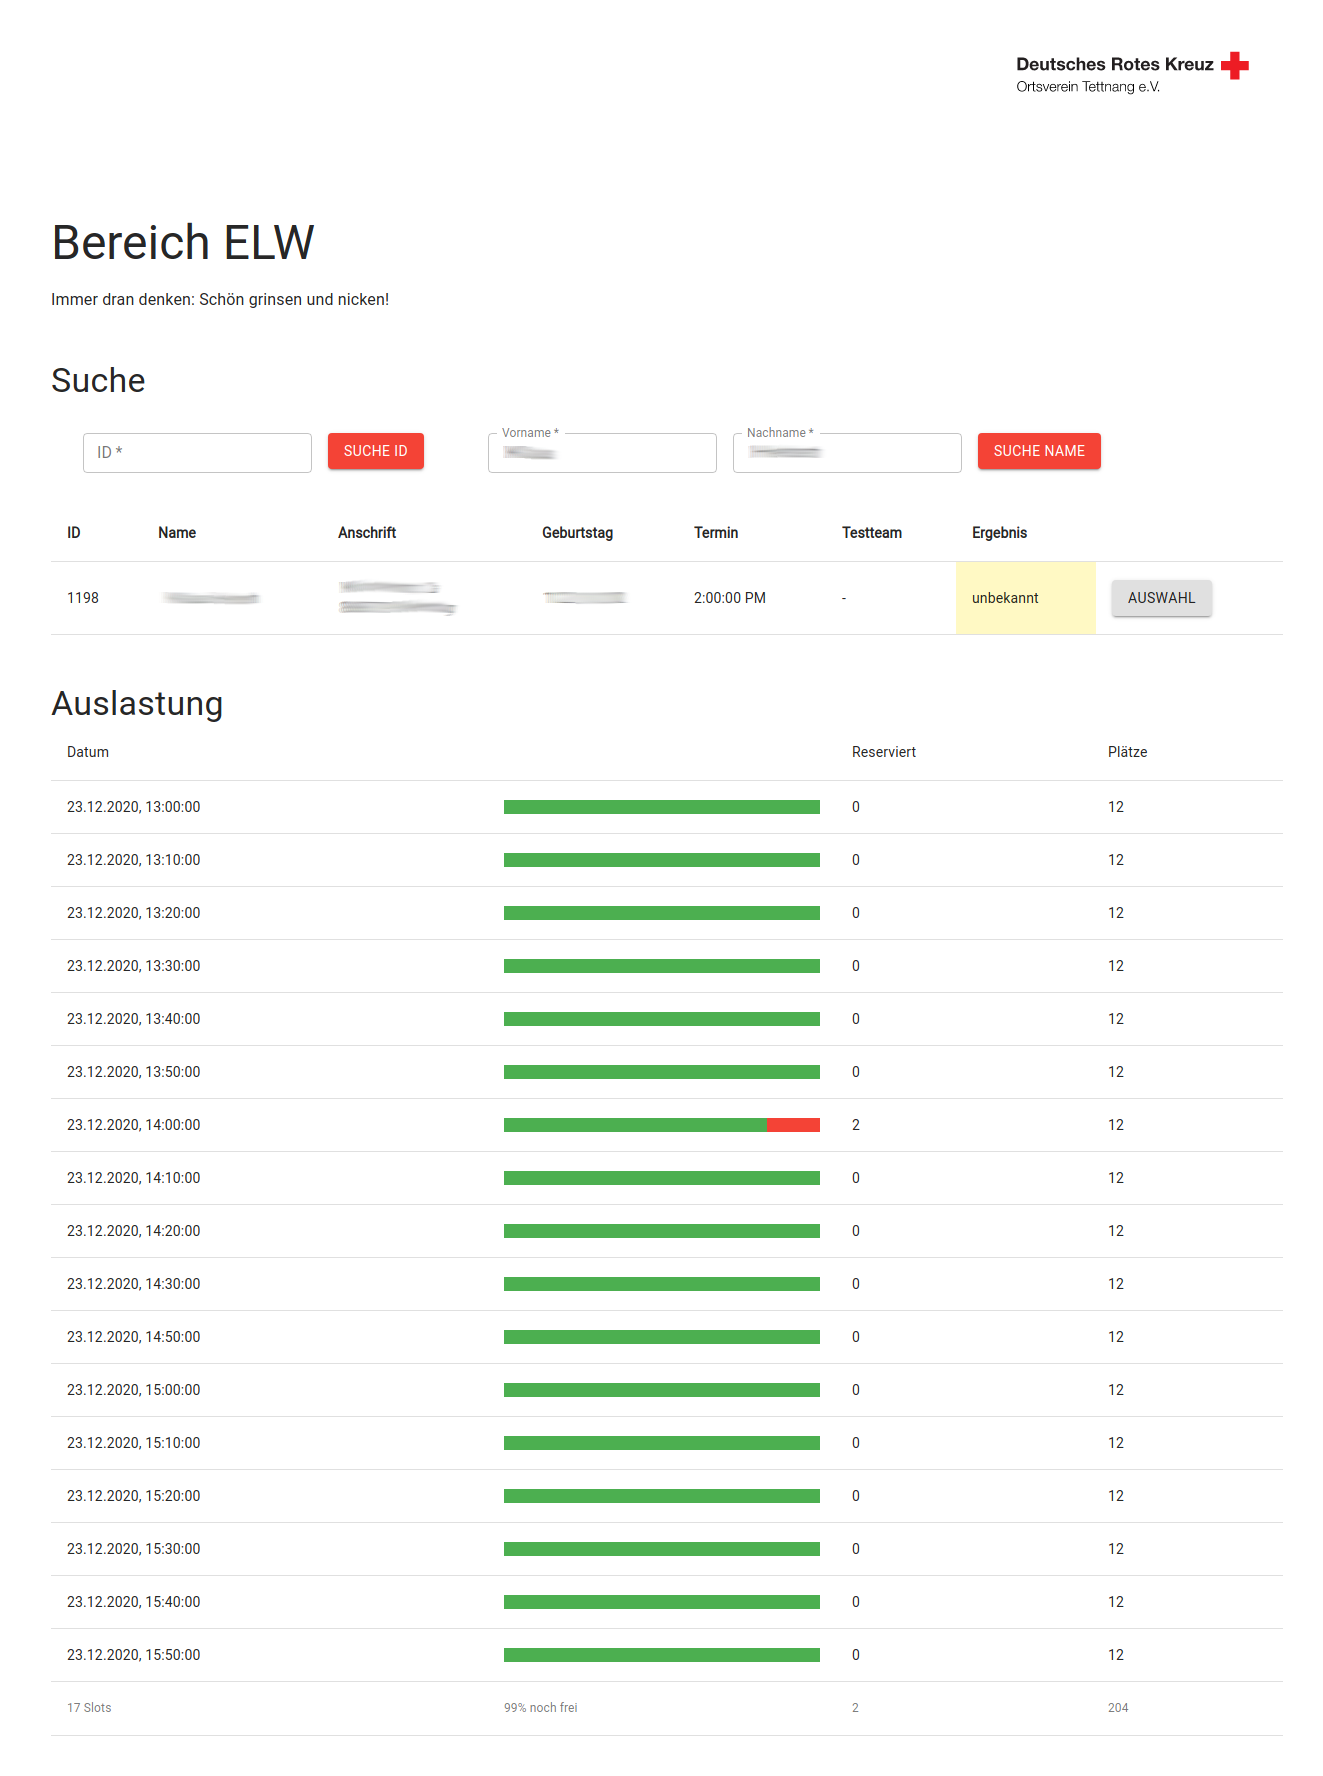
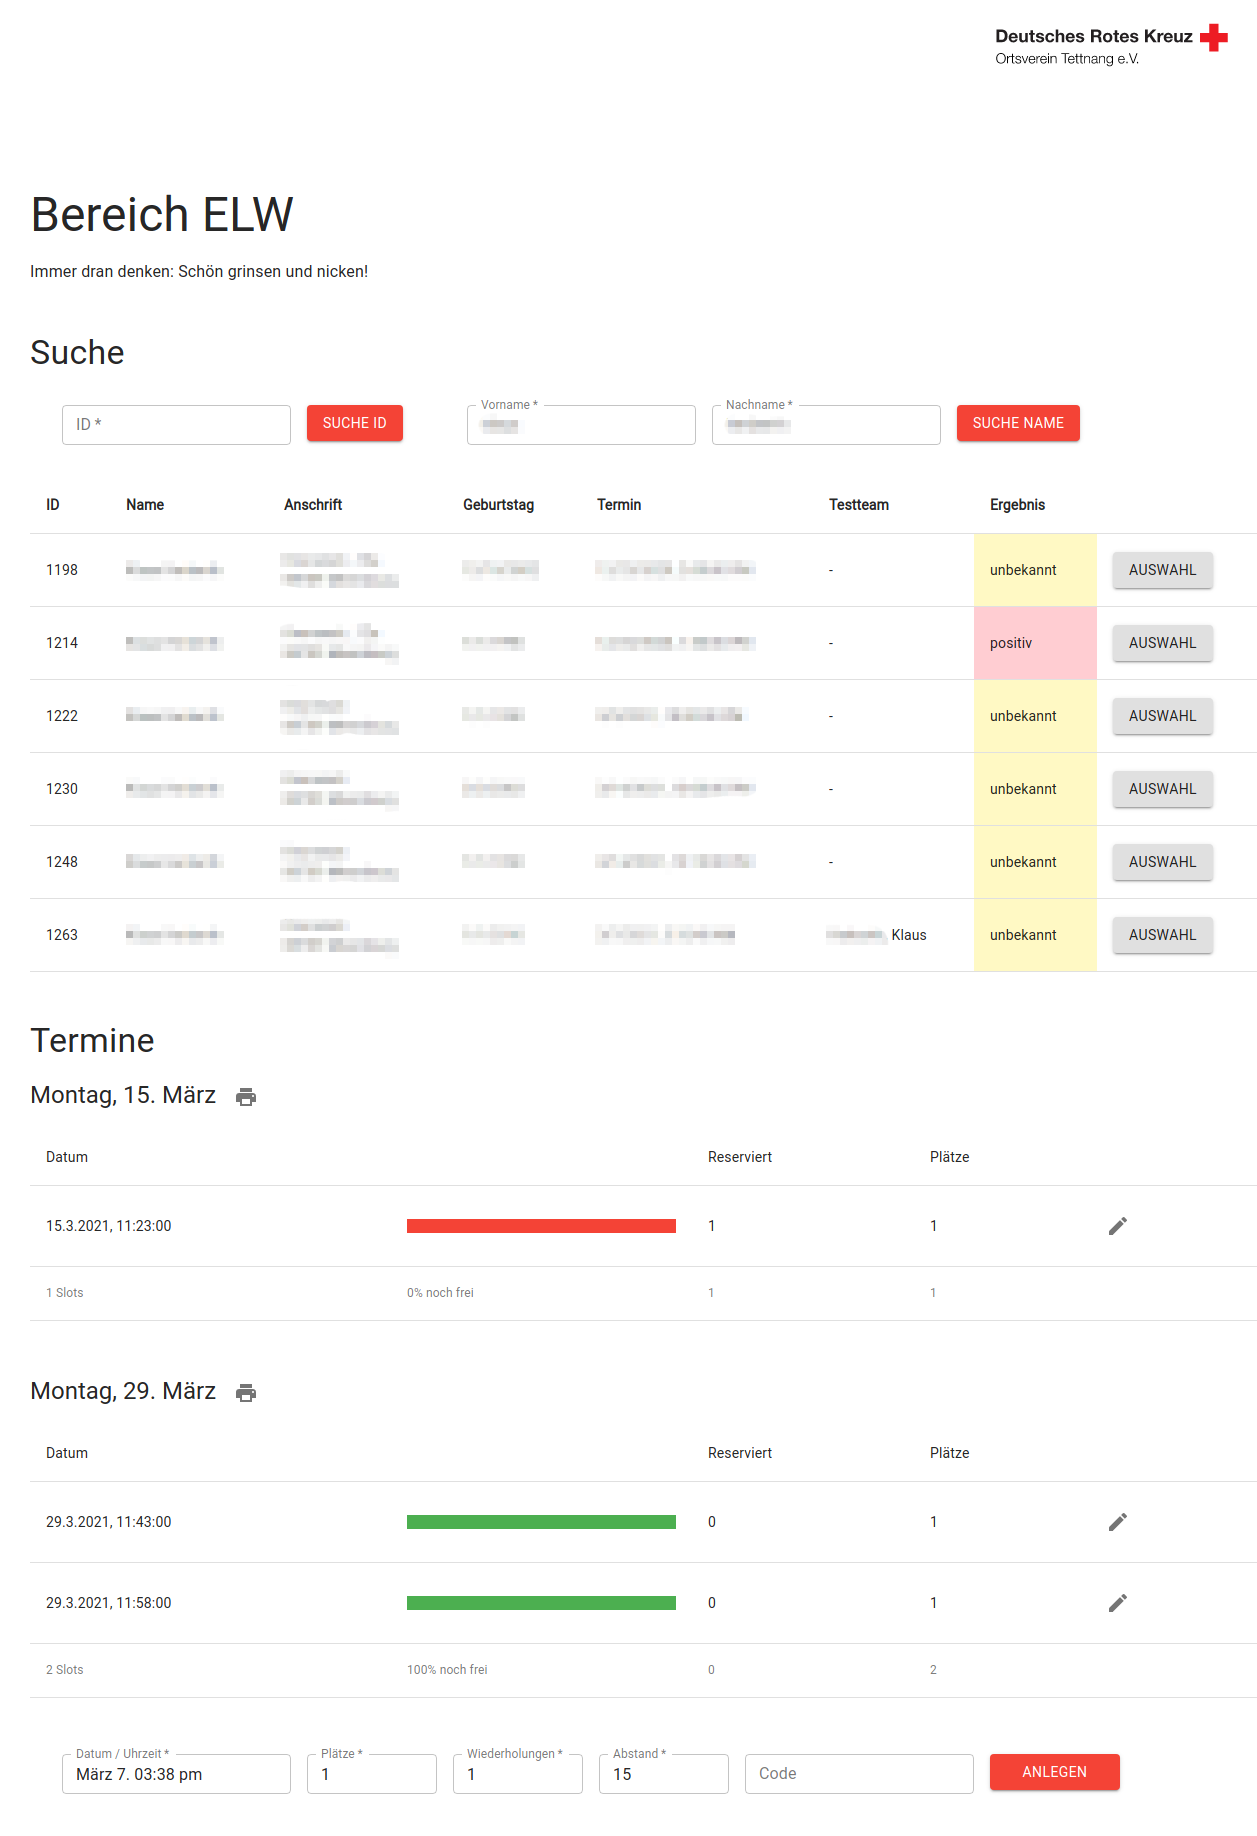
docs: update readme

diff --git a/README.md b/README.md
@@ -1,4 +1,4 @@
-This is a simple booking system to reservate dates at an one day corona test
+This is a complete booking system to reservate dates and handle results at a corona test
 station. It was developed in a hurry and contains therefore maybe some bugs or
 shortcomings.
 
@@ -6,20 +6,21 @@ shortcomings.
 This application provides the following features:
 
 - Login with email
-- Up two 5 reservations per email address (2 adults + 3 children)
+- Multiple reservations per email address
 - Test result overview after login
 - Reservation confirmation email with calender invitation
-- Test result transmission via E-Mail
+- Test result transmission via E-Mail with digital verifiable PDF
 - Test log generation with privacy policy
 - Ids with check digit to avoid misentry
-- Easy result entry
+- Easy result entry through barcodes
 - Start time, end time, number of slots and dates per slot configurable
-- Automatic rest slot on halftime
+- Configurable overall or weekly number of tests
+- Admin area with basic statistics and possibility to add more dates
 
 Features which are currently missing:
 
 - Result overview for admins
-- Day and location selection. Currently this application is only meant to be used for a one day testing station.
+- Location selection
 - Waiting list
 - Canceling and editing of reservations via admin page
 
@@ -48,7 +49,7 @@ SMTP_FROM=testung@yourdomain
 MODERATORS=mod1@yourdomain,mod2@yourdomain
 ```
 
-You can configure your dates in `lib/const.ts`. If you want to change the text
+You can find more configuration options in `.env-example`. If you want to change the text
 (including email and so on), you have to do it directly in the code.
 
 Now you have to run the following commands to run the application:
@@ -63,8 +64,8 @@ yarn start
 Open [http://localhost:3000](http://localhost:3000) with your browser to see the
 result. Open [http://localhost:3000/elw](http://localhost:3000/elw) to enter the
 moderator page and
-[http://localhost:3000/elw/test-log](http://localhost:3000/elw/test-log) to
-generate all test logs (this page is designed only to be look good if printed).
+[http://localhost:3000/station](http://localhost:3000/station) for the stadion
+page (result entry).
 
 In production you can use [pm2] to run this application as service with
 
@@ -72,7 +73,32 @@ In production you can use [pm2] to run this application as service with
 pm2 start yarn --name "corona-testing" --interpreter bash -- start
 ```
 
-ALTER TABLE bookings AUTO_INCREMENT=10000;
+Or you can use the following service file for system.d:
+
+```
+[Unit]
+Description=corona-testing - Next.js application for registration and more
+Documentation=
+After=network.target
+
+[Service]
+WorkingDirectory=/opt/corona-testing/
+Environment=NODE_ENV=production
+Environment=NODE_ICU_DATA=/opt/corona-testing/node_modules/full-icu
+Type=simple
+User=corona-tt
+ExecStart=/usr/bin/yarn next start -p 3078
+Restart=always
+RestartSec=10
+
+[Install]
+WantedBy=multi-user.target
+```
+
+## :pick: Troubleshooting
+- Make sure that your node installation is using full ICU. Otherwise set
+  `NODE_ICU_DATA=PATH_TO_APP/node_modules/full-icu` as environment variable.
+- PDFs are generated via [puppeteer], so make sure you don't miss any dependencies.
 
 ## :camera: Screenshots
 ### User
@@ -86,4 +112,10 @@ ALTER TABLE bookings AUTO_INCREMENT=10000;
 ![Screenshot ](https://github.com/drkTettnang/corona-testing/raw/main/docs/screenshot-result.png)
 ![Screenshot ](https://github.com/drkTettnang/corona-testing/raw/main/docs/screenshot-test-log.png)
 
+### Station
+![Screenshot ](https://github.com/drkTettnang/corona-testing/raw/main/docs/screenshot-anmeldung-station.png)
+![Screenshot ](https://github.com/drkTettnang/corona-testing/raw/main/docs/screenshot-station-signin.png)
+![Screenshot ](https://github.com/drkTettnang/corona-testing/raw/main/docs/screenshot-station-result.png)
+
 [pm2]: https://pm2.keymetrics.io
+[puppeteer]: https://github.com/puppeteer/puppeteer
